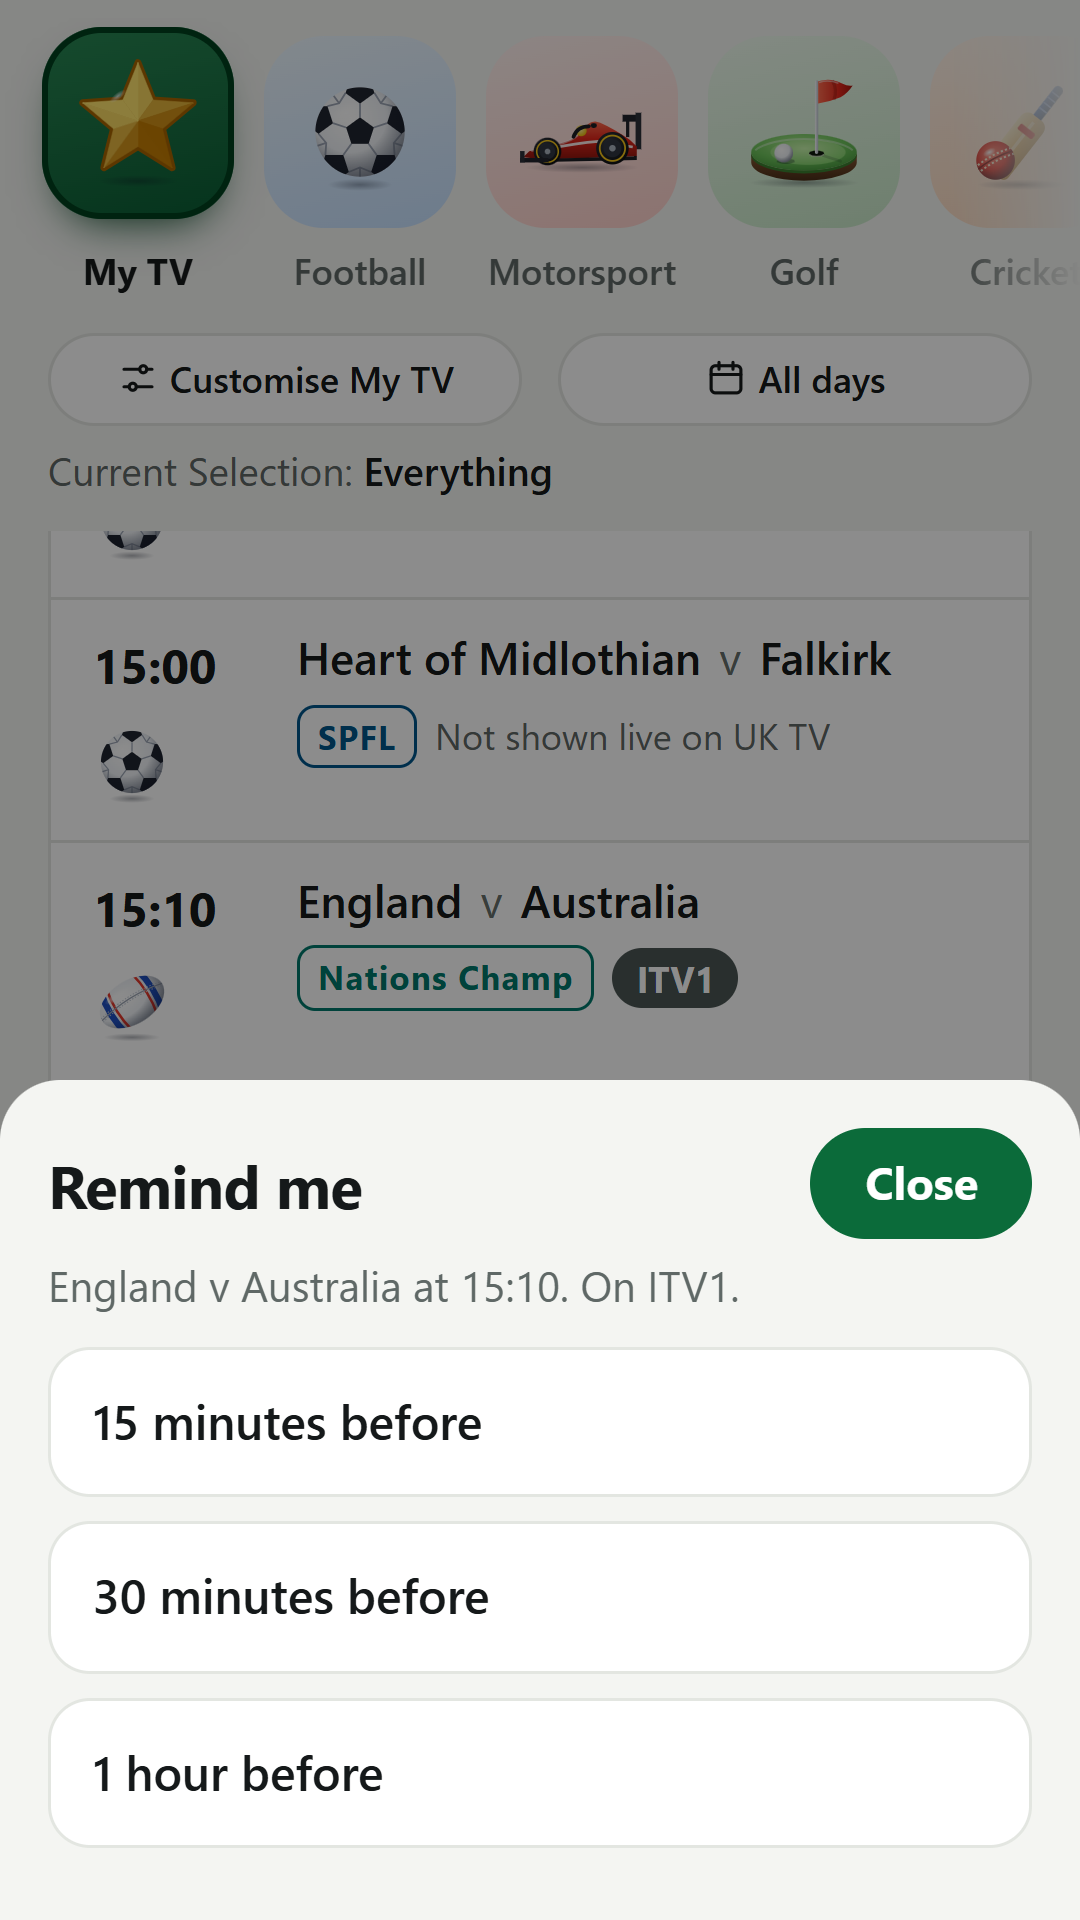
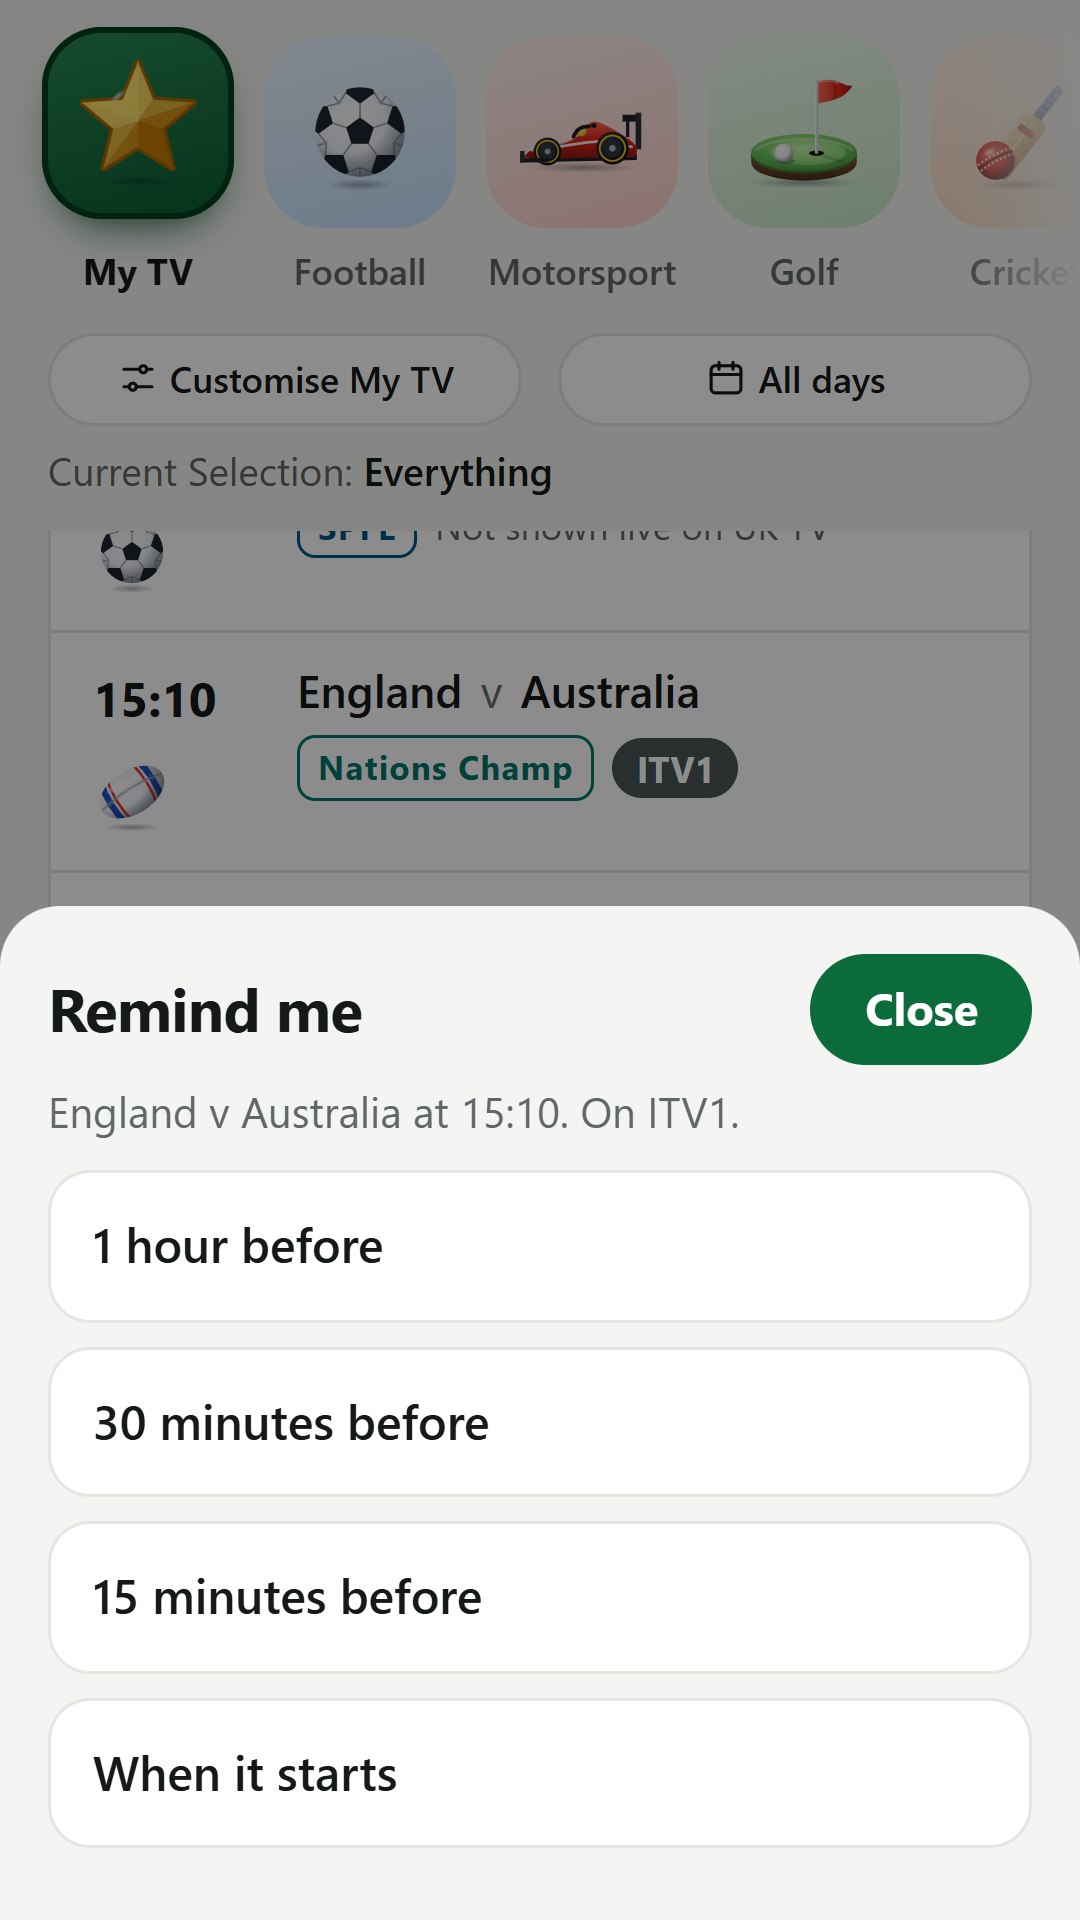
Store listing: the Remind me screenshot shows 1.0.6's four choices; note on the alarms permission

diff --git a/app/store/listing.md b/app/store/listing.md
@@ -114,6 +114,12 @@ Each section has a **Start** or **Manage** button.
 | **Health apps** | None of these (no health features) |
 | **Advertising ID** | No. The app doesn't use it (its permissions are internet, notifications, and starting after a restart for reminders, and, if the person allows it, alarms and reminders, so reminders come on the minute) |
 
+**Alarms & reminders (from 1.0.6):** the app asks for Android's "Alarms & reminders" permission
+(`SCHEDULE_EXACT_ALARM`), which each person allows in the phone's settings. No App content form covers
+it: Google Play restricts only `USE_EXACT_ALARM`, the automatic version reserved for alarm-clock and
+calendar apps, which this app doesn't use. If Play Console asks for an exact alarm declaration anyway,
+stop and check before answering.
+
 ### Content rating (IARC questionnaire)
 
 - **Email address:** support@tellyfixtures.co.uk
